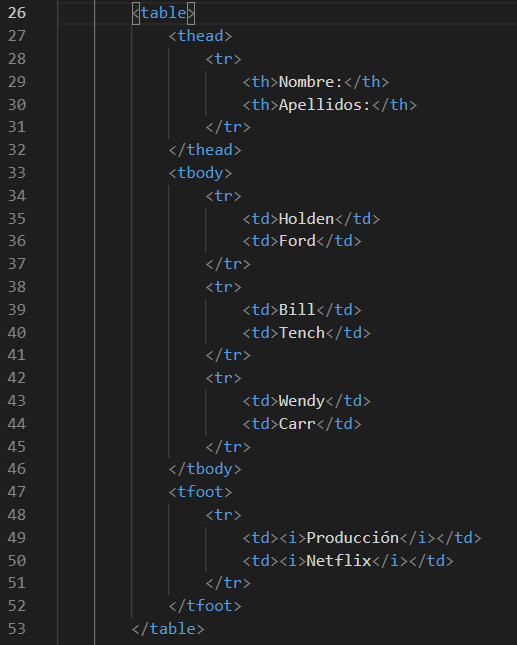
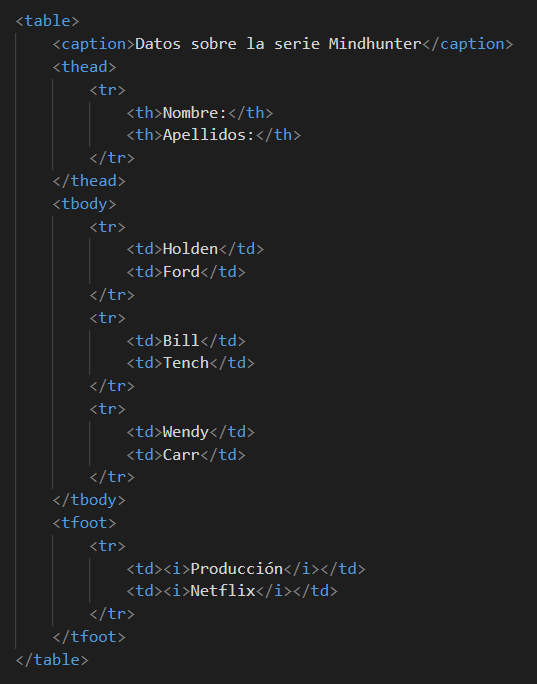
Version 1.2 de la RamaSesion3_1

diff --git a/Sesión 3(19.09.2019)/Ejercicio2.html b/Sesión 3(19.09.2019)/Ejercicio2.html
@@ -7,13 +7,18 @@
         <title>Ejercicio 2</title>
         <style>
             th,td{
-                border: 1px dotted black;
+                border: 2px dotted black;
+                background-color: salmon;
             }
             table{
                 padding:0.5em;
-                border: 1px dashed aquamarine;
+                border: 2px dashed aquamarine;
+               
             }
-            
+            caption{
+                border: 2px dotted salmon;
+                background-color: aquamarine;
+            }
         </style>
     </head>
     <body>
@@ -29,6 +34,7 @@
         Aqui sigue el parrafo</p>
     
         <table>
+            <caption>Datos sobre la serie Mindhunter</caption>
             <thead>
                 <tr>
                     <th>Nombre:</th>
@@ -57,5 +63,29 @@
             </tfoot>
         </table>
 
+        <br><br><br><br>
+
+        <table>
+            <caption>Datos de la serie Ozark</caption>
+            <thead>
+                <tr>
+                    <th colspan="2">Nombre: Ozark</th>
+                </tr>
+            </thead>
+            <tbody>
+                <tr>
+                    <td>Año de estreno: </td>
+                    <td rowspan="2">2017 y 300 millones de $$$</td>
+                </tr>
+                <tr>
+                    <td>Presupuesto</td>
+                </tr>
+            </tbody>
+            <tfoot>
+                <tr>
+                    <td colspan="2">Tercera temporada pendiente de estreno</td>
+                </tr>
+            </tfoot>
+        </table>
     </body>
 </html>
